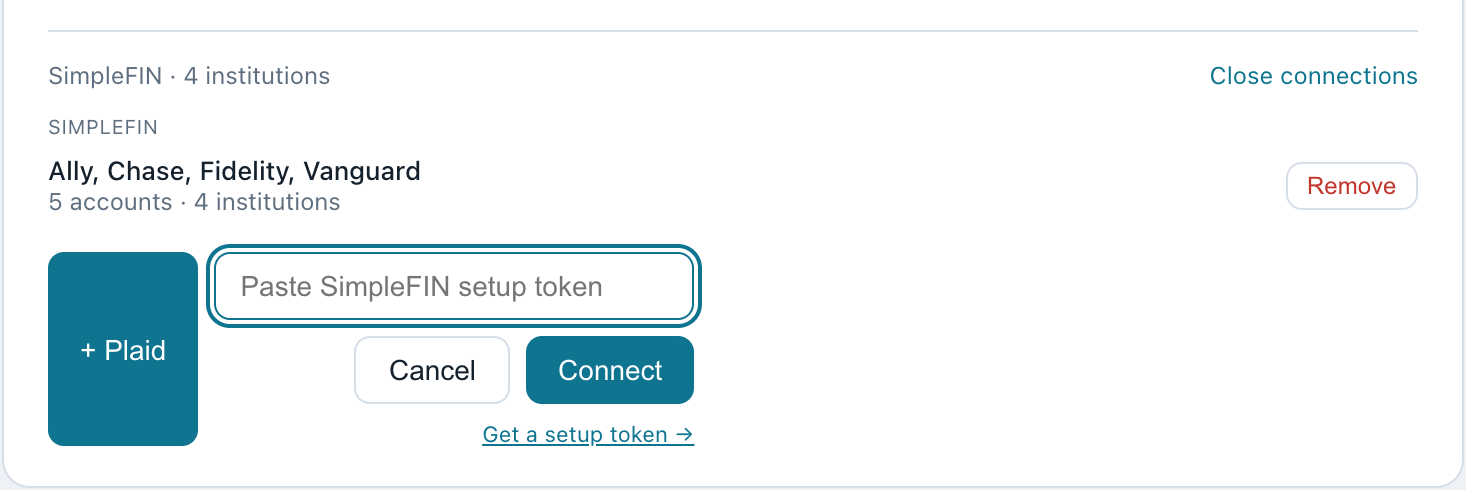
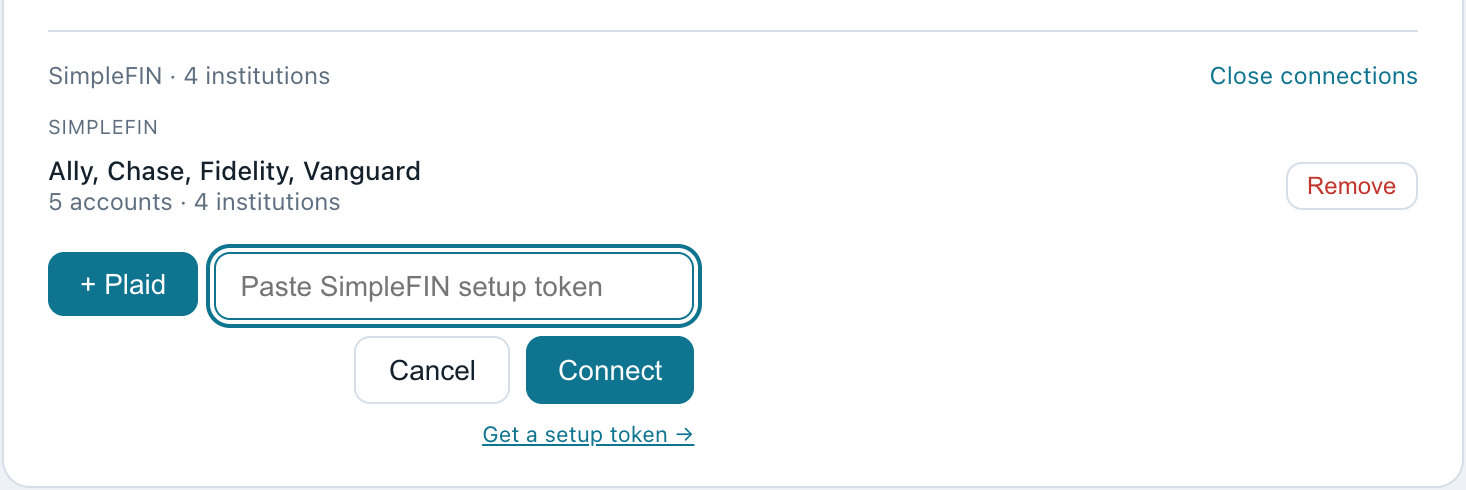
fix: keep + Plaid its own height beside the open SimpleFIN form; release v1.29.0

Changed region(s): [[0.0307, 0.6429, 0.1535, 0.9184], [0.0614, 0.551, 0.1228, 0.6122]]

diff --git a/client/src/pages/Dashboard.tsx b/client/src/pages/Dashboard.tsx
@@ -1899,7 +1899,8 @@ export default function Dashboard({ onNavigate, privacy, onTogglePrivacy }: {
                   ))}
                 </div>
               ))}
-              <div style={{ display: 'flex', gap: 8, marginTop: 12 }}>
+              {/* Top-aligned, so a button keeps its own height beside the other's open form. */}
+              <div style={{ display: 'flex', alignItems: 'flex-start', flexWrap: 'wrap', gap: 8, marginTop: 12 }}>
                 <ConnectPlaid onSuccess={refetchAll} />
                 <ConnectSimpleFIN onSuccess={refetchAll} />
               </div>
